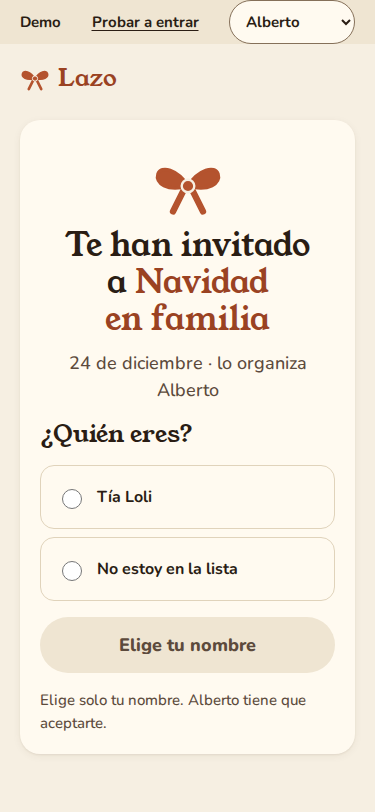
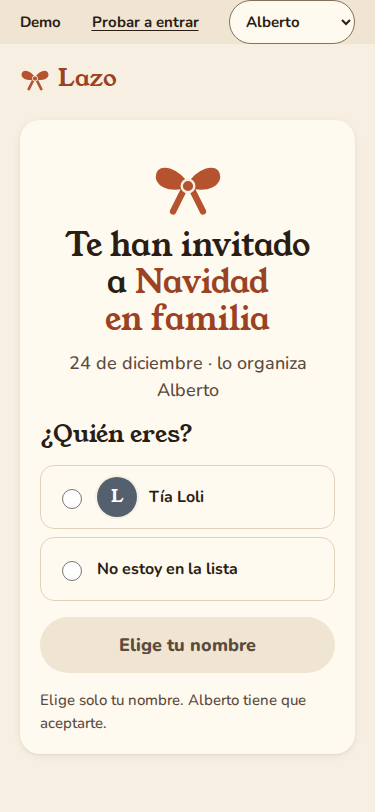
fix(diseño): sorteo legible en móvil y pendientes de la verificación de Fable 5.2

Changed region(s): [[0.264, 0.585, 0.5573, 0.6466]]

diff --git a/src/ui/screens/Draw.tsx b/src/ui/screens/Draw.tsx
@@ -46,7 +46,7 @@ export function DrawScreen({ groupId }: { groupId: string }) {
         <div className="empty">
           <Bow size={88} />
           <h2>Todavía no hay sorteo</h2>
-          <p>{isAdmin ? 'Elige quién participa y qué parejas no pueden tocarse.' : 'Cuando quien organiza el grupo lo haga, aquí verás tu sobre.'}</p>
+          <p>{isAdmin ? 'Elige quién participa y qué parejas no pueden tocarse.' : 'Cuando quien organiza el grupo lo haga, aquí verás a quién te toca regalar.'}</p>
         </div>
       )}
       {isAdmin && !setup && (
@@ -65,7 +65,7 @@ export function DrawScreen({ groupId }: { groupId: string }) {
           onCancel={() => setSetup(false)}
           onRun={async (participants, exclusions, budget) => {
             await api.runDraw(groupId, participants, exclusions, budget);
-            toast('Sorteo hecho. Cada uno ya tiene su sobre.');
+            toast('Sorteo hecho. Cada uno ya sabe a quién regala.');
             setSetup(false);
             setOpened(false);
             reload();
@@ -145,7 +145,7 @@ function DrawSetup({ members, redo, onCancel, onRun }: { members: { id: Id; name
         <input className="input" inputMode="decimal" value={budget} onChange={(e) => setBudget(e.target.value)} placeholder="30" />
       </label>
       {err && <p className="notice notice-error" role="alert">{err}</p>}
-      {sure && <p className="notice" role="alert">El sorteo anterior se borrará y cada persona tendrá un sobre nuevo. Pulsa otra vez para confirmar.</p>}
+      {sure && <p className="notice" role="alert">El sorteo anterior se borrará y a cada persona le tocará alguien nuevo. Pulsa otra vez para confirmar.</p>}
       <ButtonGroup>
         <Button variant="primary" icon={Shuffle} loading={busy} disabled={chosen.size < 3} onClick={run}>{sure ? 'Sí, sortear de nuevo' : `Sortear entre ${chosen.size}`}</Button>
         <Button variant="ghost" icon={X} onClick={onCancel}>Cancelar</Button>

diff --git a/src/styles.css b/src/styles.css
@@ -515,7 +515,7 @@ dialog.sheet::backdrop { background: rgb(42 29 20 / 0.45); animation: fade 200ms
   transition: clip-path 420ms var(--ease-out), opacity 300ms ease; clip-path: inset(0 0 0 0);
 }
 .envelope .cover .bow { color: var(--oro); --knot-ring: var(--abeto-fondo); }
-.envelope .cover > :not(.bow) { background: var(--abeto-fondo); padding: 4px 12px; border-radius: var(--r-pill); }
+.envelope .cover > :not(.cover-bow) { background: var(--abeto-fondo); padding: 4px 12px; border-radius: var(--r-pill); }
 .envelope[data-open] .cover { clip-path: inset(0 0 100% 0); pointer-events: none; }
 @media (prefers-reduced-motion: reduce) { .envelope .cover { transition: opacity 200ms ease; } .envelope[data-open] .cover { opacity: 0; clip-path: none; } }
 
@@ -566,3 +566,4 @@ table.preview th { background: var(--hundido); font-weight: 800; }
 .notice svg { flex: none; margin-top: 3px; }
 .envelope .cover { place-content: end center; padding-bottom: var(--s-8); }
 .envelope .cover .cover-bow { position: absolute; left: 50%; top: 50%; transform: translate(-50%, -50%); }
+.envelope { min-height: 380px; align-content: center; }

diff --git a/src/ui/screens/Join.tsx b/src/ui/screens/Join.tsx
@@ -3,7 +3,7 @@ import { Bow, Loading } from '../Bow';
 import type { InviteInfo } from '../../api/types';
 import { Button } from '../Button';
 import { go, useApi } from '../ctx';
-import { errorText, useLoad } from '../kit';
+import { Avatar, errorText, useLoad } from '../kit';
 
 const DATE = new Intl.DateTimeFormat('es-ES', { day: 'numeric', month: 'long' });
 
@@ -103,6 +103,7 @@ function General({ token, info, onPending }: { token: string; info: InviteInfo; 
           {info.free.map((f) => (
             <label key={f.list} className="choice">
               <input type="radio" name="plaza" value={f.list} checked={choice === f.list} onChange={() => setChoice(f.list)} />
+              <Avatar user={{ name: f.name, color: 'almendra' }} />
               {f.name}
             </label>
           ))}

diff --git a/src/App.tsx b/src/App.tsx
@@ -90,7 +90,7 @@ export function App({ api }: { api: Api }) {
                     {t.sub && <p className="sub">{t.sub}</p>}
                     {d !== null && d >= 0 && (
                       <p className="when">
-                        {fecha(t.date!)} · <span className="nw">{d > 1 ? (<>faltan <b>{d}</b> días</>) : d === 1 ? 'es mañana' : 'es hoy'}</span>
+                        {fecha(t.date!)} <span className="nw">· {d > 1 ? (<>faltan <b>{d}</b> días</>) : d === 1 ? 'es mañana' : 'es hoy'}</span>
                       </p>
                     )}
                   </div>

diff --git a/docs/design/v0.4/FABLE-REVISION.md b/docs/design/v0.4/FABLE-REVISION.md
@@ -70,3 +70,54 @@ No. La etiqueta de precio girada, la cinta en cruz y el papel crema dan un mundo
     - `.vis-line svg { flex: none; }`, para que el ojo de «Tu lista» no se encoja.
     - En `App.tsx` (línea 94), envolver `faltan <b>{d}</b> días` en `<span style={{ whiteSpace: 'nowrap' }}>`, para que «días» no quede huérfano.
     - En `App.tsx` (línea 83), cambiar el texto «Volver» por el nombre del destino («Navidad en familia»), y dejar «Volver» solo si no hay nombre.
+
+---
+
+## Verificación (Fable 5.2)
+
+### Veredicto: **no apto**, por un solo fallo
+
+Nueve de los diez arreglos están bien. Bloquea el sorteo en móvil: el título «Te ha tocado…» sale tapado («Te … o…») en `despues/sorteo-375.png`.
+
+**Qué he revisado.** Las catorce capturas nuevas (seis a 375 px y dos a 1280 px en claro, tres en oscuro, tres de primera pantalla a 390 px), `styles.css`, `Draw.tsx` y las llamadas a `Avatar`, `VisibilityNote` y `backLabel` en `src`.
+
+**Qué no he comprobado.** El aviso efímero no sale en ninguna captura; el arreglo 7 lo doy por bueno por el CSS. El sorteo solo lo he visto a 375 px y cerrado. Los dos valores que propongo abajo salen de la geometría de la captura, no de un render.
+
+### Lo que impide publicar
+
+En `styles.css`, línea 518, el selector `.envelope .cover > :not(.bow)` alcanza también al envoltorio `.cover-bow`, que es un `span` y no lleva la clase `.bow`. Le pone fondo abeto y relleno, y esa pastilla tapa el centro del título y corta la banda horizontal a los lados del lazo.
+
+1. Cambiar el selector de la línea 518 a `.envelope .cover > :not(.cover-bow)`.
+2. Añadir `.envelope { min-height: 380px; align-content: center; }`. Sin la pastilla, las colas del lazo aún pisarían unos 17 px del título; con 380 px de alto quedan unos 20 px libres entre lazo y título.
+
+Con esos dos cambios y una captura nueva de `sorteo-375.png` que muestre el título entero, es apto.
+
+### Los diez arreglos
+
+| N.º | Arreglo | Estado | Lo que se ve |
+|---|---|---|---|
+| 1 | Hucha en móvil | Resuelto | Filas legibles, avatares de 40 px, el botón baja de línea. Igual en oscuro. |
+| 2 | Borde en oscuro | Resuelto | Todas las tarjetas tienen borde y «Lo llevas tú» recupera su aro. |
+| 3 | Lazo de la cinta | Resuelto | Lazo crema con sombra en claro, oscuro sobre la banda en oscuro; se lee sobre el chal rojo. La regla muerta ya no está. |
+| 4 | «Sorpresa» y precio | Resuelto | A 375 px el precio baja bajo la etiqueta; a 1280 px no chocan. |
+| 5 | Rejilla de personas | Resuelto | Las seis en una fila a 1280 px. |
+| 6 | Sorteo | **Parcial, bloquea** | Lazo y textos nuevos puestos, pero el título queda tapado. Además sigue «sobre» en `Draw.tsx`, líneas 49, 68 y 148. |
+| 7 | «Deshacer» en oscuro | Resuelto en código | `.toast .btn-link { color: var(--oro-suave); }`. Sin captura. |
+| 8 | Avisos a 16 px | Resuelto | Lista propia y hucha usan `.notice`; «Mamá no ve esto» sigue en pastilla. |
+| 9 | Unirse | Parcial, no bloquea | `.choice` mide 64 px. Faltan la fila de avatares (tarea 8, aceptada) y el avatar en cada opción. |
+| 10 | Cabecera | Resuelto | El ojo no se encoge, «faltan 42 días» va junto y los enlaces de volver nombran el destino. Las tres etiquetas me valen. |
+
+### Pendiente que no bloquea
+
+- Cambiar «sobre» por «paquete» en las tres cadenas de `Draw.tsx` (líneas 49, 68 y 148).
+- En Unirse, el avatar con la inicial en cada opción de plaza se puede pintar con el nombre que ya se muestra, sin esperar a la tarea 8, si se acepta un color neutro.
+- En el grupo a 375 px, el punto medio queda colgado al final de «24 de diciembre ·».
+
+## Cierre (Opus 5.5)
+
+- Aplicados los dos cambios del sorteo (`.envelope .cover > :not(.cover-bow)` y `.envelope { min-height: 380px; align-content: center; }`). La captura nueva `despues/sorteo-375.png` muestra «Te ha tocado…» entero y la banda sin cortes, que era la condición para darlo por **apto**.
+- Aplicado también lo que no bloqueaba:
+  - Fuera la palabra «sobre» en el sorteo.
+  - El punto medio va unido a «faltan N días».
+  - Avatar con la inicial en cada opción de Unirse, en color neutro.
+- Pruebas: 30 de 30 en e2e, tipos y lint limpios.
